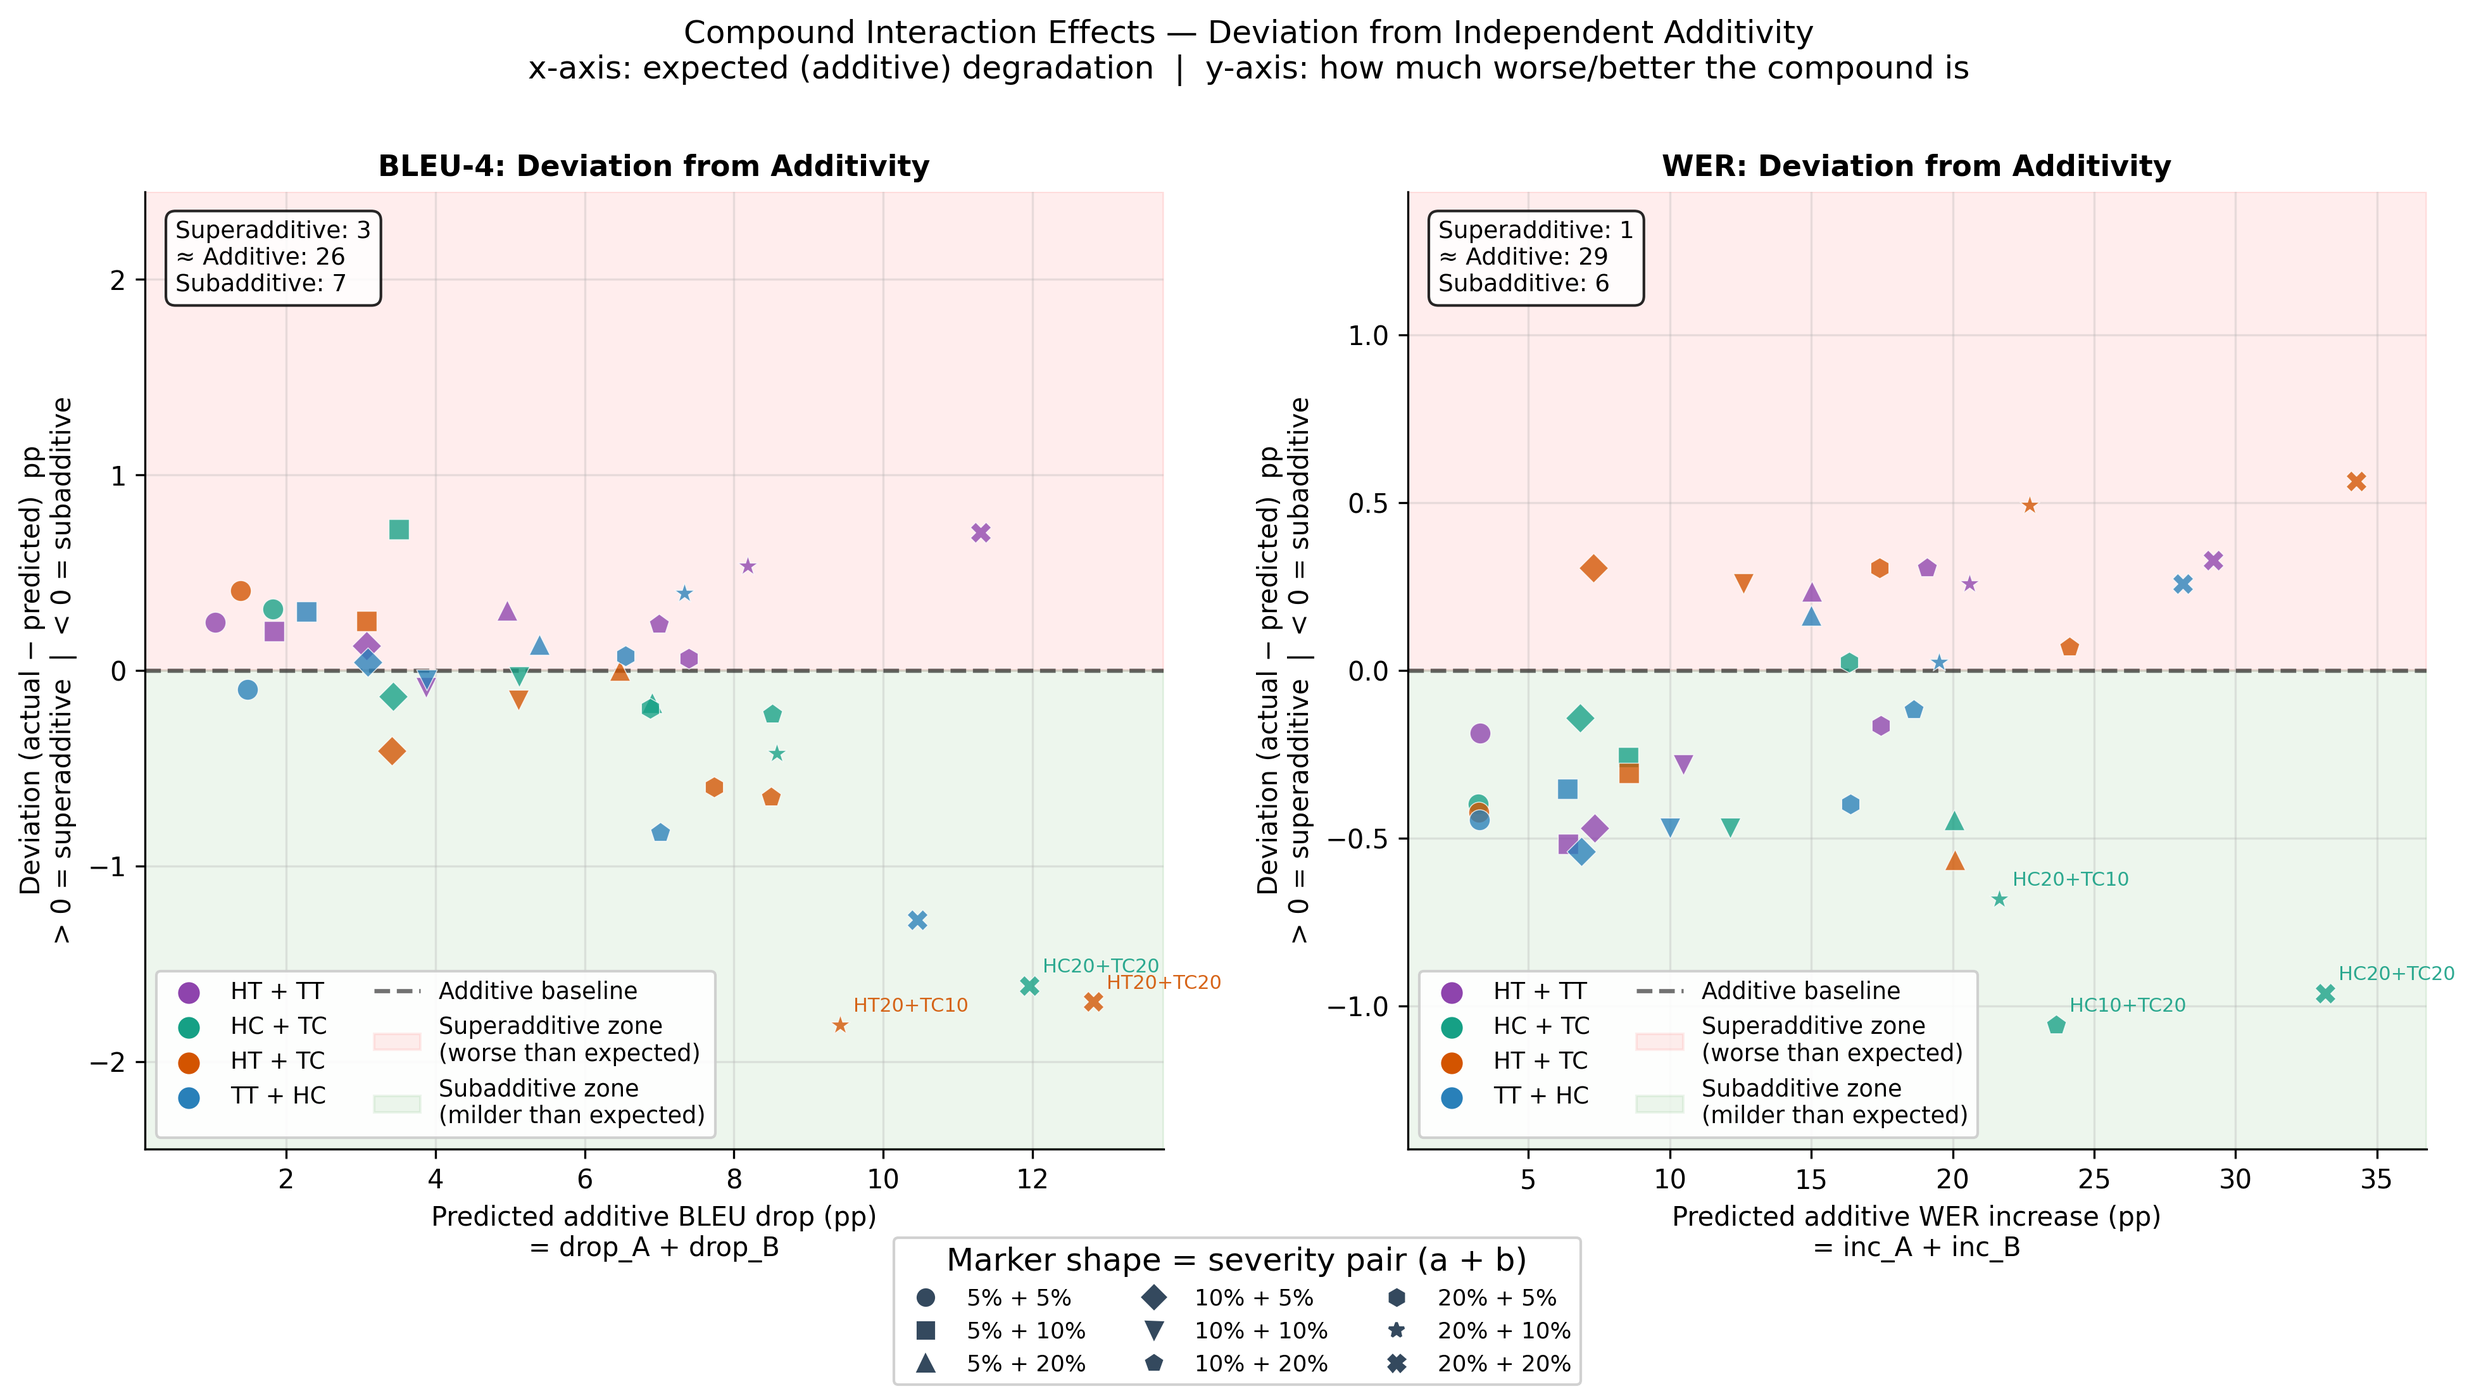
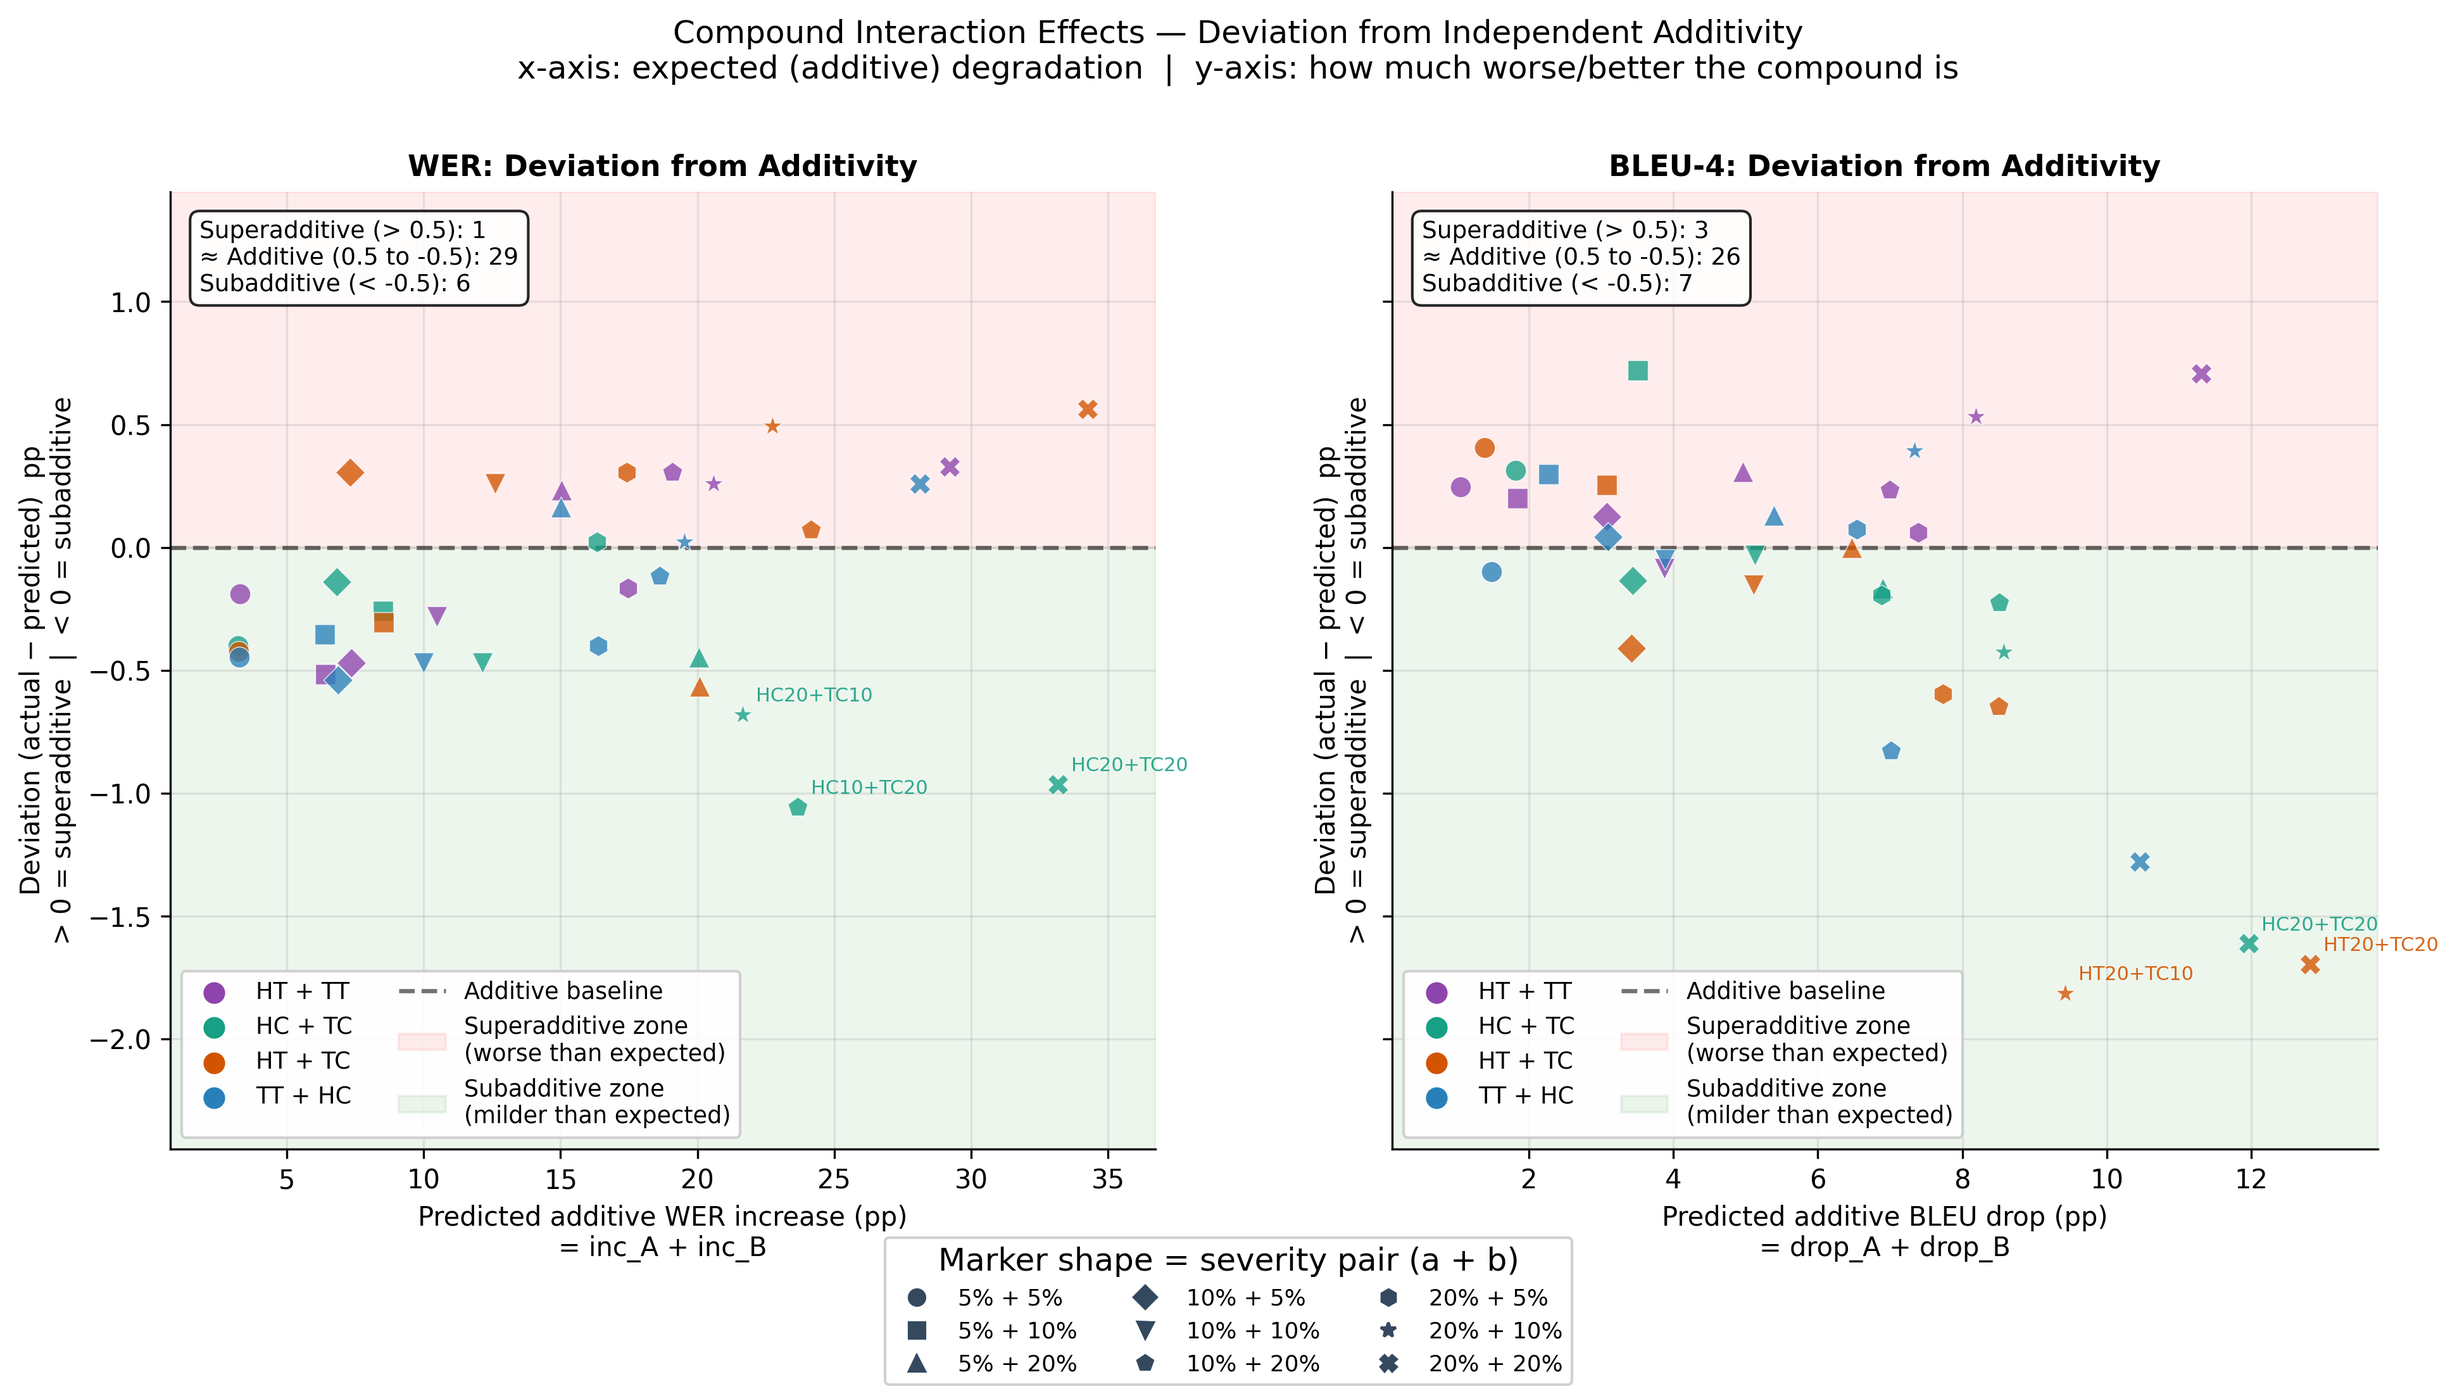
Refactor Figure 9 in `visualize.py` for improved clarity and remove compound results in Figure 11 and 12

diff --git a/analysis/visualize.py b/analysis/visualize.py
@@ -1013,14 +1013,14 @@ def fig09_interaction_scatter(results, output_dir, clean_metrics=None):
     Colour = compound pair family; marker = severity combo (sa, sb).
     '''
     if clean_metrics is None: clean_metrics = results.get('clean', {}).get('metrics', {})
-    clean_bleu = clean_metrics.get('bleu4', 0)
     clean_wer  = clean_metrics.get('wer',   0)
+    clean_bleu = clean_metrics.get('bleu4', 0)
     if not clean_bleu: return
 
-    fig, (ax_bleu, ax_wer) = plt.subplots(1, 2, figsize=(15.5, 7))
+    fig, (ax_wer, ax_bleu) = plt.subplots(1, 2, figsize=(15, 7), sharey=True)
     all_sev_combos = {}
-    bleu_data = defaultdict(list)  # pair → [(pred, deviation, a_sev, b_sev, lbl)]
     wer_data  = defaultdict(list)
+    bleu_data = defaultdict(list)  # pair → [(pred, deviation, a_sev, b_sev, lbl)]
 
     for cond_name, cond_data in results.items():
         if '+' not in cond_name or cond_name in ('clean', 'meta'): continue
@@ -1070,7 +1070,16 @@ def fig09_interaction_scatter(results, output_dir, clean_metrics=None):
         if i < len(marker_catalog): marker_map[sev_key] = marker_catalog[i]
         else: marker_map[sev_key] = marker_catalog[i % len(marker_catalog)]
 
-    def _draw_deviation_scatter(ax, data_dict, title, xlabel, ylabel):
+    # Share one y-scale so WER/BLEU interaction strength is directly comparable.
+    all_dev_vals = [dev for pts in bleu_data.values() for _, dev, *_ in pts]
+    all_dev_vals += [dev for pts in wer_data.values() for _, dev, *_ in pts]
+    shared_ylim = None
+    if all_dev_vals:
+        y_abs_global = max(abs(v) for v in all_dev_vals)
+        y_span_global = max(1.0, y_abs_global * 1.35)
+        shared_ylim = (-y_span_global, y_span_global - 1.0)
+
+    def _draw_deviation_scatter(ax, data_dict, title, xlabel, ylabel, shared_ylim=None):
         all_preds, all_devs, flat = [], [], []
         for pair, pts in data_dict.items():
             color = COMPOUND_PAIR_COLORS.get(pair, '#7f8c8d')
@@ -1086,6 +1095,7 @@ def fig09_interaction_scatter(results, output_dir, clean_metrics=None):
 
         if not all_preds:
             ax.set_title(f'{title}\n(no compound data)')
+            if shared_ylim is not None: ax.set_ylim(*shared_ylim)
             return
 
         # y = 0 horizontal baseline (additive)
@@ -1094,20 +1104,22 @@ def fig09_interaction_scatter(results, output_dir, clean_metrics=None):
         ax.axhline(0, color='black', linestyle='--', linewidth=1.6, alpha=0.55, label='Additive baseline')
 
         # Shaded zones
-        y_abs = max(abs(v) for v in all_devs) if all_devs else 1
-        y_span = max(1.0, y_abs * 1.35)
-        ax.fill_between([x_lo - x_margin, x_hi + x_margin], [0, 0], [y_span, y_span],
+        if shared_ylim is not None: y_lo, y_hi = shared_ylim
+        else:
+            y_abs = max(abs(v) for v in all_devs) if all_devs else 1
+            y_span = max(1.0, y_abs * 1.35)
+            y_lo, y_hi = -y_span, y_span
+        ax.fill_between([x_lo - x_margin, x_hi + x_margin], [0, 0], [y_hi, y_hi],
                         alpha=0.07, color='red', label='Superadditive zone\n(worse than expected)')
-        ax.fill_between([x_lo - x_margin, x_hi + x_margin], [-y_span, -y_span], [0, 0],
+        ax.fill_between([x_lo - x_margin, x_hi + x_margin], [y_lo, y_lo], [0, 0],
                         alpha=0.07, color='green', label='Subadditive zone\n(milder than expected)')
 
         n_super = sum(1 for d in all_devs if d > 0.5)
         n_sub   = sum(1 for d in all_devs if d < -0.5)
         n_add   = len(all_devs) - n_super - n_sub
         ax.text(
-            0.03, 0.97, f'Superadditive: {n_super}\n≈ Additive: {n_add}\nSubadditive: {n_sub}',
-            transform=ax.transAxes, fontsize=9, va='top',
-            bbox=dict(boxstyle='round,pad=0.4', fc='white', alpha=0.85)
+            0.03, 0.97, f'Superadditive (> 0.5): {n_super}\n≈ Additive (0.5 to -0.5): {n_add}\nSubadditive (< -0.5): {n_sub}',
+            transform=ax.transAxes, fontsize=9, va='top', bbox=dict(boxstyle='round,pad=0.4', fc='white', alpha=0.85)
         )
         if flat: # Label only the strongest interactions to reduce clutter.
             top_idx = np.argsort(np.abs(np.array(all_devs)))[-3:]
@@ -1118,22 +1130,24 @@ def fig09_interaction_scatter(results, output_dir, clean_metrics=None):
                     color=COMPOUND_PAIR_COLORS.get(pair, '#7f8c8d'), alpha=0.9
                 )
         ax.set_xlim(x_lo - x_margin, x_hi + x_margin)
-        ax.set_ylim(-y_span, y_span)
+        ax.set_ylim(y_lo, y_hi)
         ax.set_xlabel(xlabel, fontsize=10)
         ax.set_ylabel(ylabel, fontsize=10)
         ax.set_title(title, fontsize=11, fontweight='bold')
         ax.legend(loc='lower left', fontsize=8.8, ncol=2, framealpha=0.9)
 
     _draw_deviation_scatter(
-        ax_bleu, bleu_data, 'BLEU-4: Deviation from Additivity',
-        'Predicted additive BLEU drop (pp)\n= drop_A + drop_B',
-        'Deviation (actual − predicted)  pp\n> 0 = superadditive  |  < 0 = subadditive')
-
-    _draw_deviation_scatter(
         ax_wer, wer_data, 'WER: Deviation from Additivity',
         'Predicted additive WER increase (pp)\n= inc_A + inc_B',
-        'Deviation (actual − predicted)  pp\n> 0 = superadditive  |  < 0 = subadditive')
-
+        'Deviation (actual − predicted)  pp\n> 0 = superadditive  |  < 0 = subadditive',
+        shared_ylim=shared_ylim
+    )
+    _draw_deviation_scatter(
+        ax_bleu, bleu_data, 'BLEU-4: Deviation from Additivity',
+        'Predicted additive BLEU drop (pp)\n= drop_A + drop_B',
+        'Deviation (actual − predicted)  pp\n> 0 = superadditive  |  < 0 = subadditive',
+        shared_ylim=shared_ylim
+    )
     # Explicit marker-shape legend: shape maps severity combination (a%, b%).
     shape_handles = []
     for sev_key in unique_pairs:
@@ -1163,11 +1177,11 @@ def fig10_sensitivity_ranking(results, output_dir, clean_metrics=None):
         • 1 row per compound pair (mean across all sa/sb combos for that pair) — typically 4-6 rows, marked with diagonal hatching.
 
     Three-metric encoding:
+        ▲  WER increase  (pp, red dots, separate top axis)
         ▬  BLEU-4 drop   (pp, colored bar, bottom axis)
         ◆  ROUGE-L drop  (pp, dark dots, same bottom axis)
-        ▲  WER increase  (pp, red dots, separate top axis)
 
-    Uses absolute pp so BLEU and WER share a common scale. WER on a
+    Uses absolute pp so WER and BLEU share a common scale. WER on a
     separate top axis because its absolute range differs from BLEU/ROUGE.
     '''
     if clean_metrics is None: clean_metrics = results.get('clean', {}).get('metrics', {})
@@ -1309,15 +1323,12 @@ def fig10_sensitivity_ranking(results, output_dir, clean_metrics=None):
 
 
 # Figure 11: Output Length Ratio
-def fig11_output_length_ratio(results, severity_levels, output_dir, compound_results=None):
+def fig11_output_length_ratio(results, severity_levels, output_dir):
     '''Mean output/reference length ratio per condition.
 
     Solid lines = single-noise basic conditions.
-    Dashed lines = two-noise compound conditions grouped by pair, with x as
-    combined severity (sum of both component severities).
     Ratio = 1.0 is ideal; ratio < 1 = under-generation; ratio > 1 = over-generation.
     '''
-    if compound_results is None: compound_results = results
     fig, ax = plt.subplots(figsize=(11, 6))
     sevs_pct = [s * 100 for s in severity_levels]
 
@@ -1336,27 +1347,6 @@ def fig11_output_length_ratio(results, severity_levels, output_dir, compound_res
             marker=CONDITION_MARKERS[ctype], label=CONDITION_LABELS[ctype]
         )
 
-    # Compound means (from compound_results, typically benchmark)
-    for pair in sorted(_extract_compound_mean_curves(compound_results, 'bleu4').keys()):
-        grouped = defaultdict(list)
-        for cond_name, cond_data in compound_results.items():
-            if '+' not in cond_name or cond_name in ('clean', 'meta'): continue
-            p = _parse_compound_name(cond_name)
-            if p is None or _canonical_pair(p[0], p[2]) != pair: continue
-            ps = cond_data.get('metrics', {}).get('per_sample', {})
-            if ps:
-                total = round(p[1] + p[3], 4)
-                grouped[total].append(np.mean([v['output_length_ratio'] for v in ps.values()]))
-                
-        if grouped:
-            items = sorted(grouped.items())
-            color = COMPOUND_PAIR_COLORS.get(pair, '#7f8c8d')
-            ax.plot(
-                [x * 100 for x, _ in items], [float(np.mean(v)) for _, v in items], 
-                '--', color=color, linewidth=1.5, alpha=0.65,
-                label=f'[cpd] {COMPOUND_PAIR_LABELS.get(pair, pair)} mean'
-            )
-
     # Clean baseline
     clean_ps = results.get('clean', {}).get('metrics', {}).get('per_sample', {})
     if clean_ps:
@@ -1365,7 +1355,7 @@ def fig11_output_length_ratio(results, severity_levels, output_dir, compound_res
 
     ax.axhline(1.0, color='black', linestyle=':', linewidth=1.0, alpha=0.4)
     ax.text(sevs_pct[-1] * 0.02, 1.01, 'ideal (1.0)', fontsize=10, color='gray')
-    ax.set_xlabel('Severity (%) [for compound curves: combined severity = s1 + s2]')
+    ax.set_xlabel('Severity (%)')
     ax.set_ylabel('Mean Output / Reference Length Ratio')
     ax.set_title('Output Length Distortion Under Temporal Misalignment\n< 1.0 = under-generation;  > 1.0 = over-generation')
     ax.legend(ncol=2, fontsize=10, loc='best')
@@ -1374,15 +1364,12 @@ def fig11_output_length_ratio(results, severity_levels, output_dir, compound_res
 
 
 # Figure 12: CTC Recognition Confidence
-def fig12_ctc_confidence(results, severity_levels, output_dir, compound_results=None):
+def fig12_ctc_confidence(results, severity_levels, output_dir):
     '''Mean CTC confidence per condition.
 
     Solid lines = single-noise basic conditions.
-    Dashed lines = two-noise compound conditions grouped by pair, with x as
-    combined severity (sum of both component severities).
     Confidence drop foreshadows recognition collapse before BLEU fully degrades.
     '''
-    if compound_results is None: compound_results = results
     fig, ax = plt.subplots(figsize=(11, 6))
     sevs_pct  = [s * 100 for s in severity_levels]
     has_data  = False
@@ -1403,27 +1390,6 @@ def fig12_ctc_confidence(results, severity_levels, output_dir, compound_results=
             marker=CONDITION_MARKERS[ctype], label=CONDITION_LABELS[ctype],
         )
 
-    # Compound means (from compound_results, typically benchmark)
-    for pair in sorted(_extract_compound_mean_curves(compound_results, 'bleu4').keys()):
-        grouped = defaultdict(list)
-        for cond_name, cond_data in compound_results.items():
-            if '+' not in cond_name or cond_name in ('clean', 'meta'): continue
-            p = _parse_compound_name(cond_name)
-            if p is None or _canonical_pair(p[0], p[2]) != pair: continue
-            preds = cond_data.get('predictions', {})
-            cc = [v['mean_ctc_confidence'] for v in preds.values() if v.get('mean_ctc_confidence') is not None]
-            if cc:
-                total = round(p[1] + p[3], 4)
-                grouped[total].append(float(np.mean(cc)))
-                has_data = True
-        if grouped:
-            items = sorted(grouped.items())
-            color = COMPOUND_PAIR_COLORS.get(pair, '#7f8c8d')
-            ax.plot([x * 100 for x, _ in items],
-                    [float(np.mean(v)) for _, v in items],
-                    '--', color=color, linewidth=1.5, alpha=0.65,
-                    label=f'[cpd] {COMPOUND_PAIR_LABELS.get(pair, pair)} mean')
-
     if not has_data:
         plt.close(fig)
         return
@@ -1435,7 +1401,7 @@ def fig12_ctc_confidence(results, severity_levels, output_dir, compound_results=
         cl_mean = float(np.mean(clean_cc))
         ax.axhline(cl_mean, color='gray', linestyle='--', linewidth=1.5, alpha=0.8, label=f'Clean ({cl_mean:.3f})')
 
-    ax.set_xlabel('Severity (%) [for compound curves: combined severity = s1 + s2]')
+    ax.set_xlabel('Severity (%)')
     ax.set_ylabel('Mean CTC Frame Confidence')
     ax.set_title('CTC Recognition Confidence Under Temporal Misalignment\n'
                  '(early confidence drop = recognition bottleneck; dashed = compound)')
@@ -1478,14 +1444,8 @@ def generate_all_figures(results_dir: str, output_dir: str):
         fig06_transition_matrices(knee_results, knee_sevs, output_dir)
         fig07_length_vs_bleu_drop(knee_results, knee_sevs, output_dir)
         fig08_vulnerability_profile(knee_results, knee_sevs, output_dir)
-        fig11_output_length_ratio(
-            knee_results, knee_sevs, output_dir, 
-            compound_results=benchmark_results if benchmark_results is not None else knee_results
-        )
-        fig12_ctc_confidence(
-            knee_results, knee_sevs, output_dir, 
-            compound_results=benchmark_results if benchmark_results is not None else knee_results
-        )
+        fig11_output_length_ratio(knee_results, knee_sevs, output_dir)
+        fig12_ctc_confidence(knee_results, knee_sevs, output_dir)
 
     # ── Benchmark figures (all 49 conditions; compound interactions) ──────────
     if bench_path.exists():
@@ -1496,11 +1456,6 @@ def generate_all_figures(results_dir: str, output_dir: str):
         cm = benchmark_results.get('clean', {}).get('metrics', {})
         fig09_interaction_scatter(benchmark_results, output_dir, clean_metrics=cm)
         fig10_sensitivity_ranking(benchmark_results, output_dir, clean_metrics=cm)
-
-        # Re-render fig11/12 so compound overlays are included from benchmark.
-        if knee_path.exists():
-            fig11_output_length_ratio(knee_results, knee_sevs, output_dir, compound_results=benchmark_results)
-            fig12_ctc_confidence(knee_results, knee_sevs, output_dir, compound_results=benchmark_results)
 
     # ── Fig 5: basic panels from knee (10 levels) + compound from bench ───────
     # Deferred here so benchmark_results is always defined before use.
